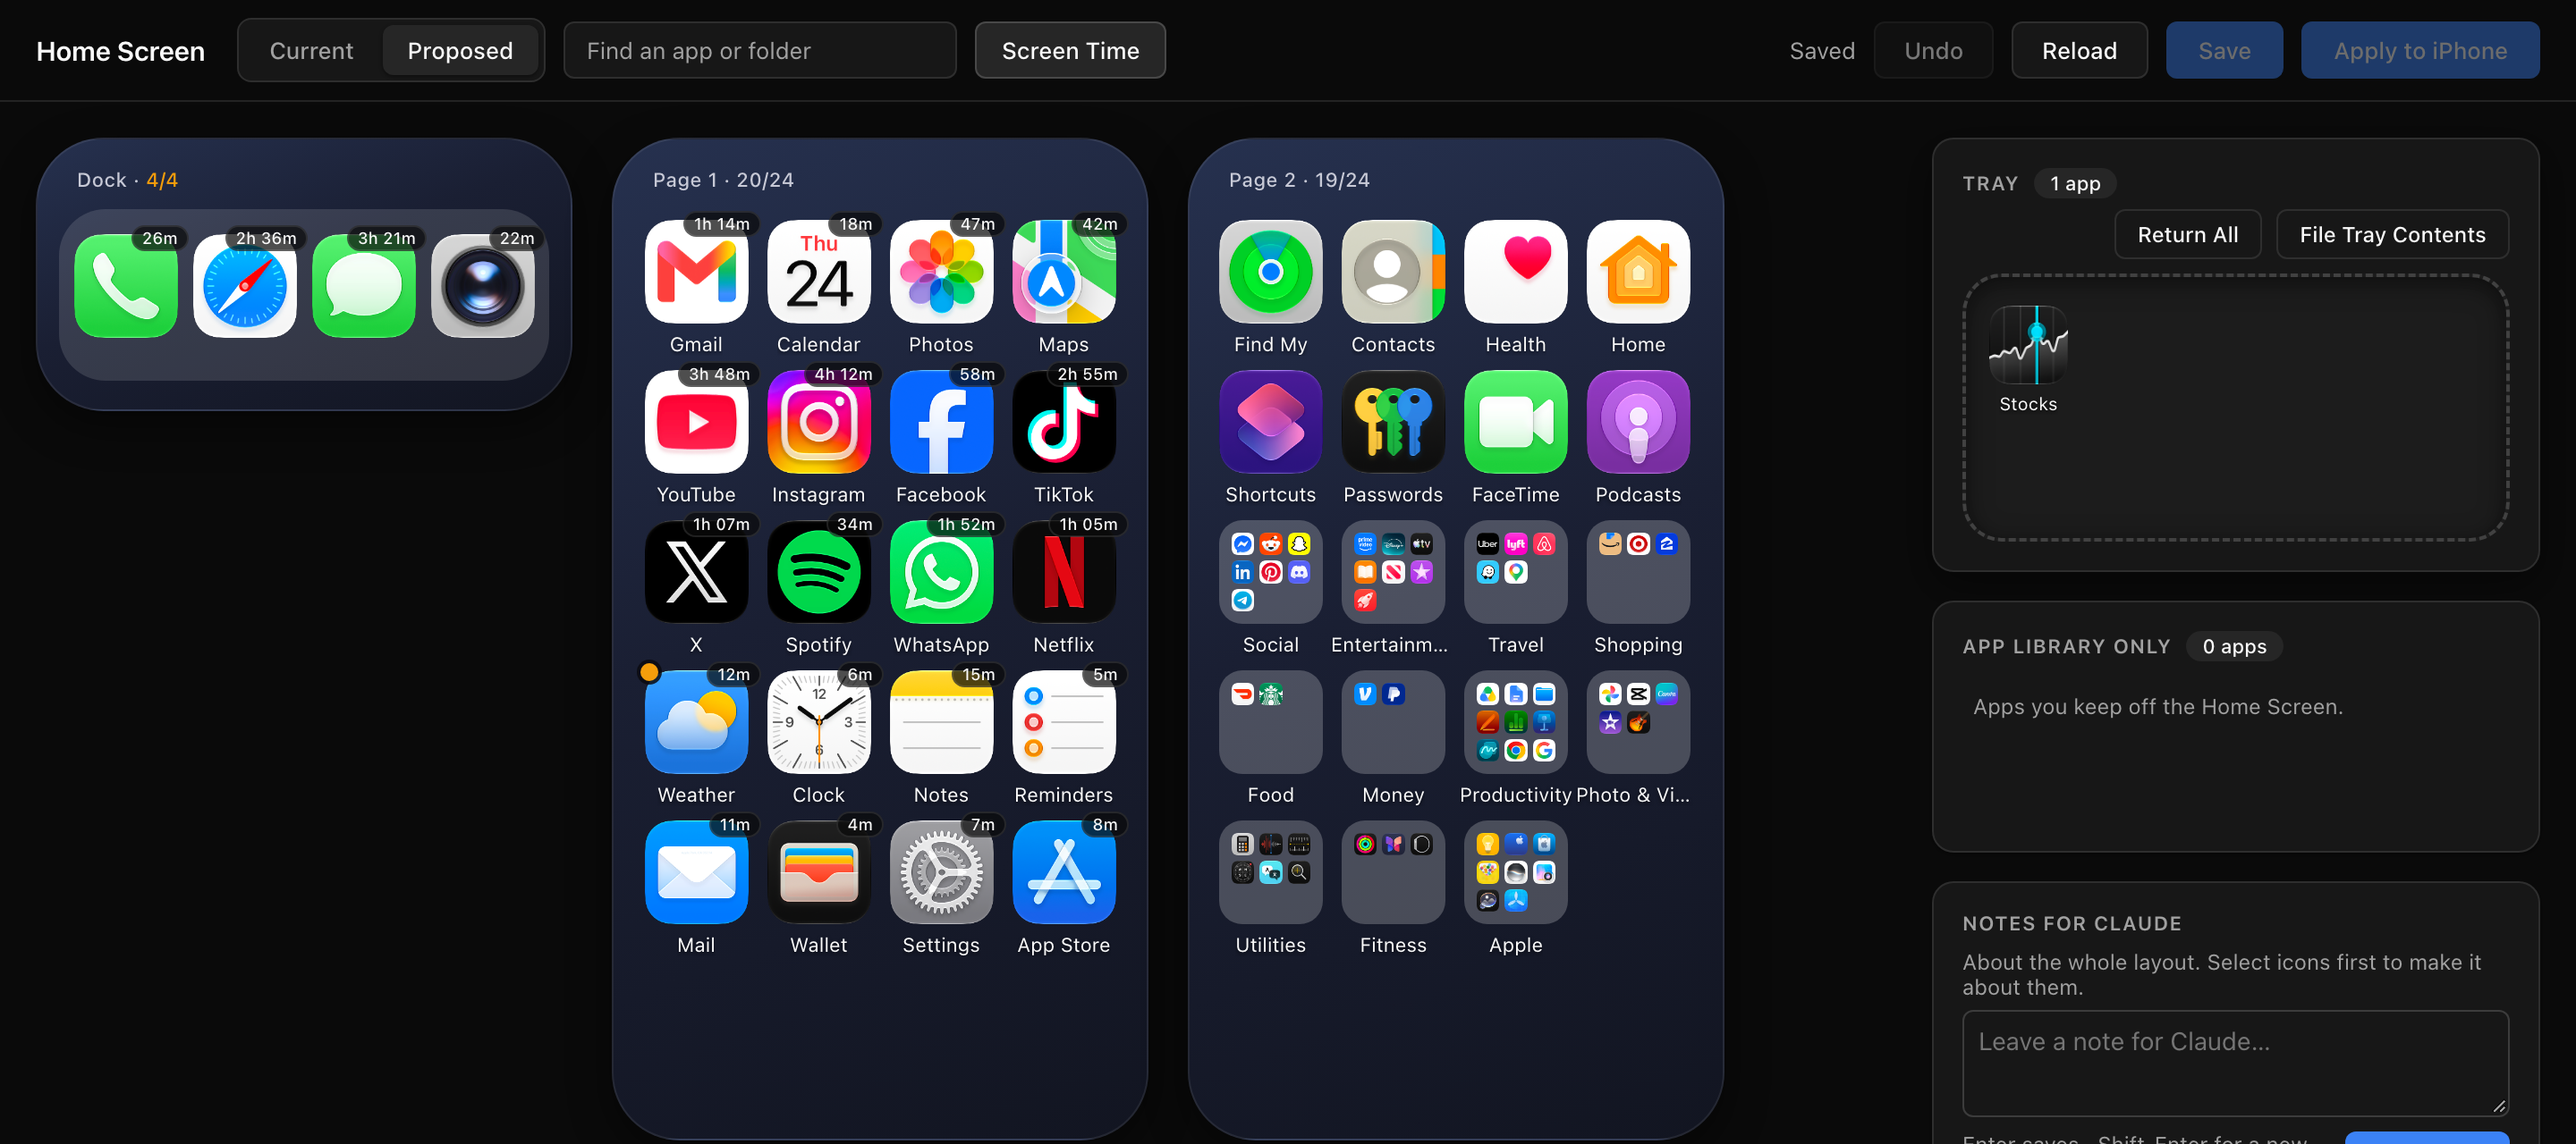
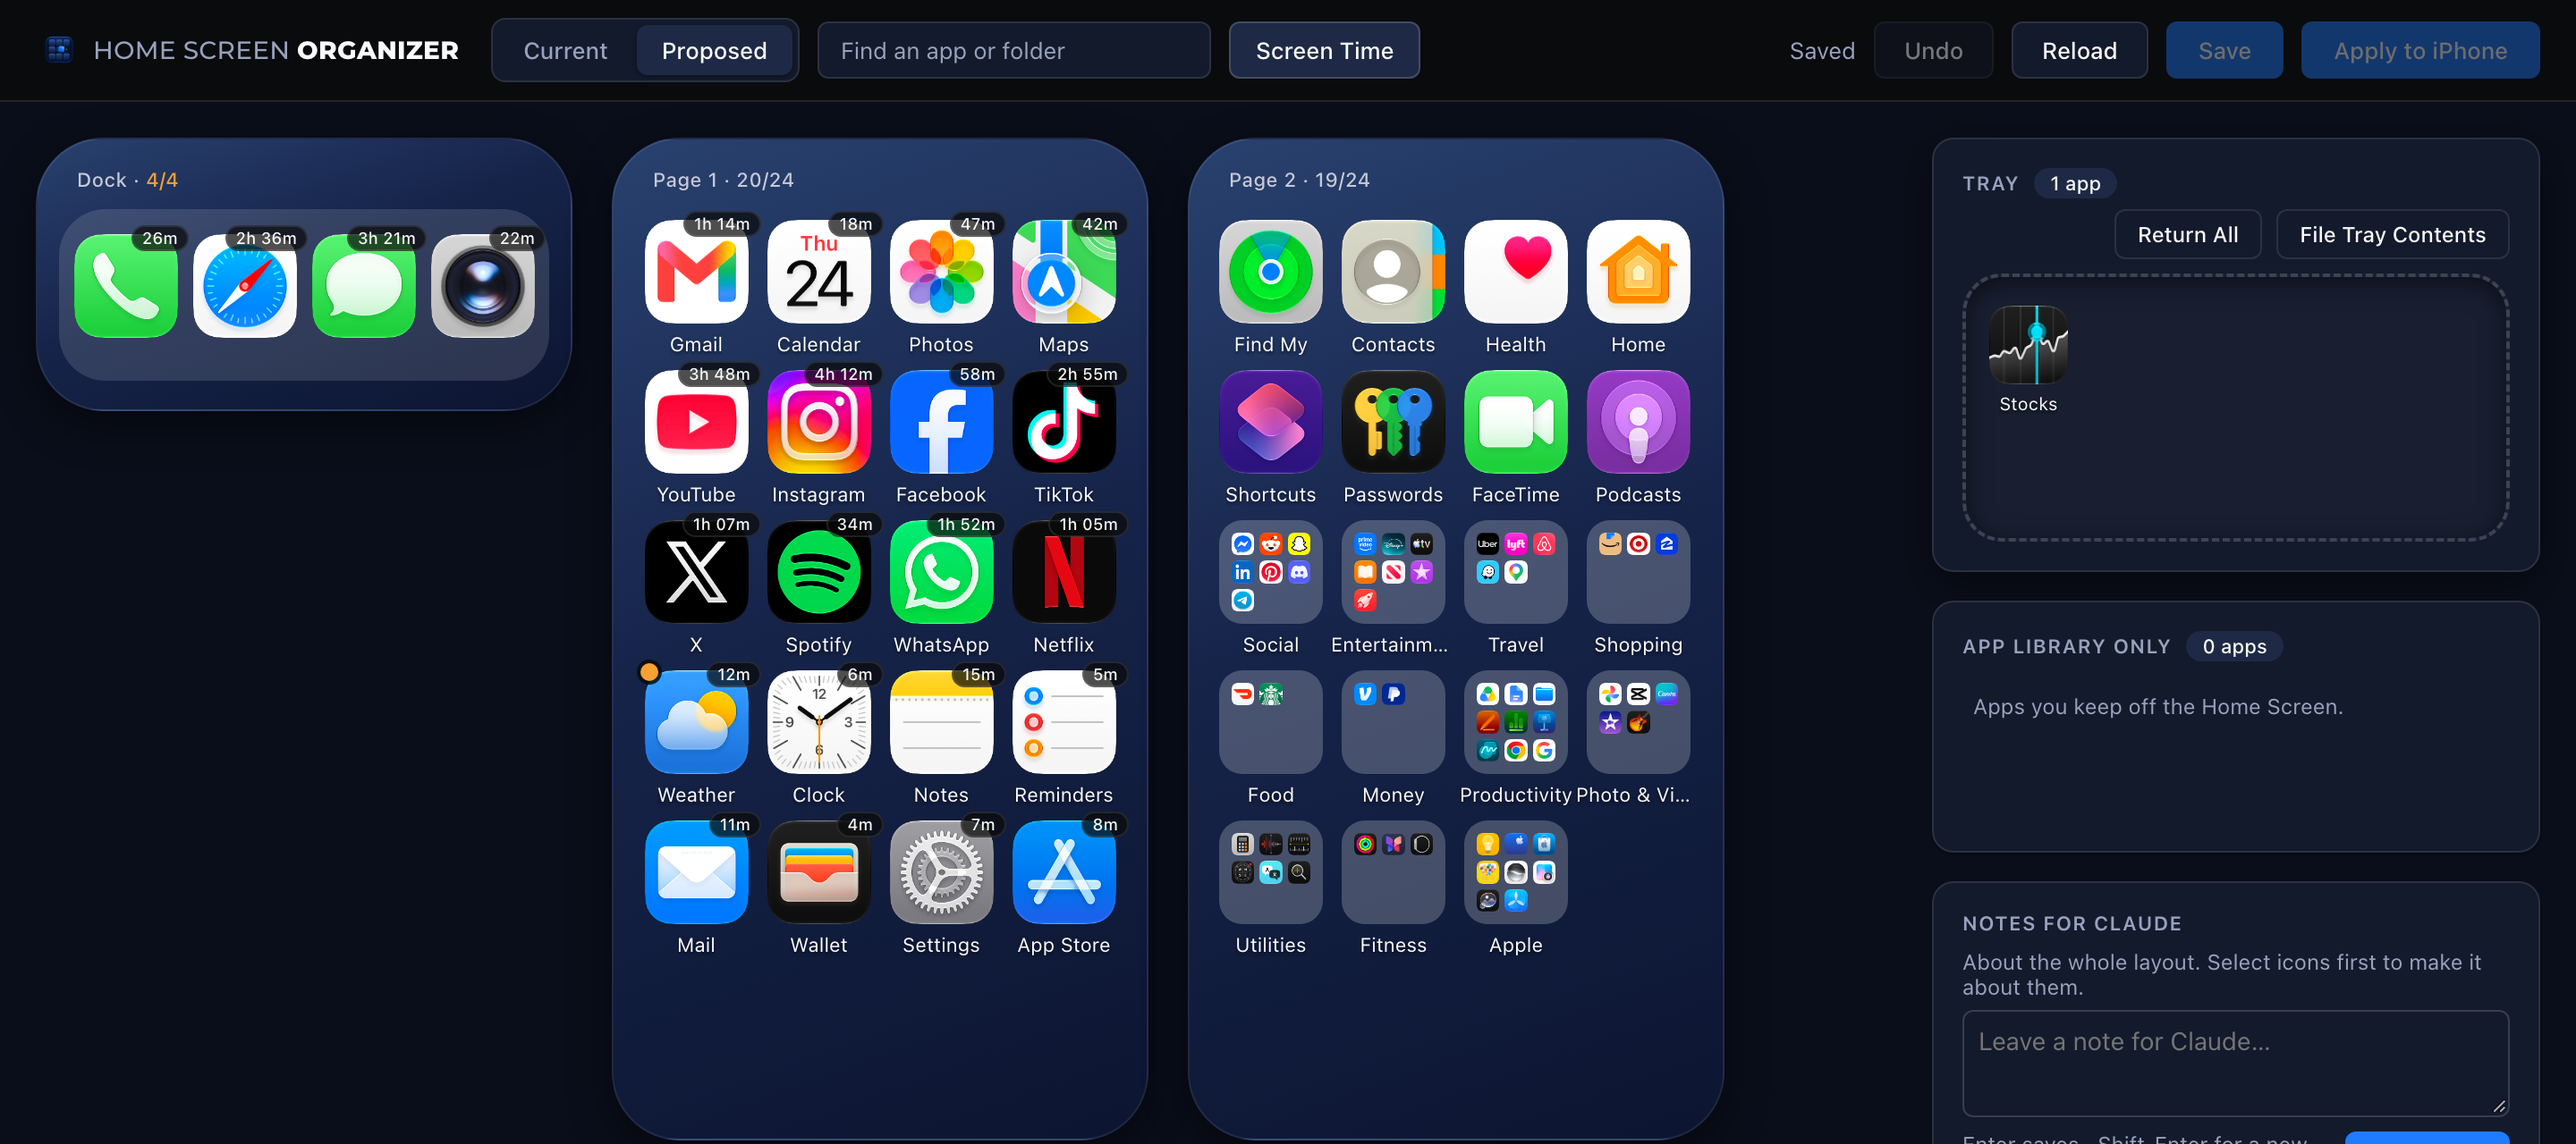
Restyle the editor with the brand palette and wordmark
Map the CSS custom properties to the brand palette: blue for actions,
selection and drop targets; navy-tinted panels and phone artboards;
orange for note dots and attention accents. Selected icons get a soft
blue glow, and drop targets pick up a dashed outline with a small
orange dot, echoing the icon's motion trail into its empty slot.

Top-left brand mark replaces the plain title, with a favicon (inline
SVG plus a PNG fallback). The <title> and the title check serve.py
uses to detect an already-running editor are updated together.

Recaptured the README screenshot against the new palette.

diff --git a/web/index.html b/web/index.html
@@ -3,26 +3,32 @@
 <head>
 <meta charset="utf-8">
 <meta name="viewport" content="width=device-width, initial-scale=1">
-<title>Home Screen</title>
+<title>Home Screen Organizer</title>
[1 lines of base64/hex data omitted]
+<link rel="icon" type="image/png" sizes="64x64" href="favicon.png">
+<link rel="preconnect" href="https://fonts.googleapis.com">
+<link rel="preconnect" href="https://fonts.gstatic.com" crossorigin>
+<link href="https://fonts.googleapis.com/css2?family=Montserrat:wght@500;800&display=swap" rel="stylesheet">
 <style>
   :root {
     color-scheme: dark;
-    /* Neutral dark surfaces, modeled on ReUI/shadcn's dark theme scale (background < card <
-       popover/muted < the raised hover step), plus a blue brand accent for actions and focus. */
-    --ground: #0a0a0a;
-    --panel: #171717;
-    --panel-raised: #262626;
-    --surface-hover: #404040;
+    /* Dark surfaces tinted toward the brand navy (modeled on ReUI/shadcn's dark theme scale —
+       background < card < popover/muted < the raised hover step), with the brand blue for
+       actions and focus and the brand orange for notes and attention accents. */
+    --ground: #0a0e1a;
+    --panel: #131a2c;
+    --panel-raised: #1e2a45;
+    --surface-hover: #34456b;
     --line: rgba(255, 255, 255, .10);
     --line-strong: rgba(255, 255, 255, .16);
     --text: #fafafa;
-    --muted: #a1a1a1;
-    --accent: #3b82f6;
-    --accent-strong: #2563eb;
+    --muted: #97a2bd;
+    --accent: #1f7bff;
+    --accent-strong: #1861d1;
     --accent-foreground: #ffffff;
     --danger: #ff6467;
     --ok: #22c55e;
-    --note: #f59e0b;
+    --note: #f7a033;
     --icon: 58px;
     --radius: 13px;
     --radius-sm: 6px;
@@ -48,7 +54,14 @@
     padding: 10px 20px; background: rgba(10, 10, 10, .85); backdrop-filter: blur(12px);
     border-bottom: 1px solid var(--line);
   }
-  header h1 { font-size: 15px; margin: 0 8px 0 0; font-weight: 600; letter-spacing: -.01em; }
+  .brand { display: inline-flex; align-items: center; gap: 8px; margin: 0 8px 0 0; text-decoration: none; color: inherit; }
+  .brand-icon { width: 24px; height: 24px; display: block; flex: none; }
+  .brand-word {
+    font-family: "Montserrat", -apple-system, "SF Pro Text", "Helvetica Neue", sans-serif;
+    font-size: 14px; line-height: 1; white-space: nowrap; letter-spacing: .01em;
+  }
+  .brand-word .light { font-weight: 500; color: var(--muted); }
+  .brand-word .bold { font-weight: 800; color: var(--text); }
   .modes { display: inline-flex; align-items: center; background: var(--panel); border: 1px solid var(--line); border-radius: var(--radius-md); padding: 3px; gap: 2px; }
   .modes button { display: inline-flex; align-items: center; height: var(--h-sm); border: 0; background: none; padding: 0 14px; border-radius: var(--radius-sm); cursor: pointer; color: var(--muted); font-size: 13px; font-weight: 500; }
   .modes button[aria-pressed="true"] { background: var(--panel-raised); color: var(--text); box-shadow: var(--shadow-sm); }
@@ -86,15 +99,19 @@
 
   .screen {
     width: 300px; padding: 14px 12px 16px; border-radius: 38px;
-    background: linear-gradient(160deg, #26314f 0%, #1a1f33 45%, #121521 100%);
+    background: linear-gradient(160deg, #29416f 0%, #16244a 45%, #0c1530 100%);
     border: 1px solid rgba(255, 255, 255, .08); box-shadow: var(--shadow-md);
   }
   .screen-head { display: flex; align-items: center; justify-content: space-between; padding: 2px 10px 10px; font-size: 11px; font-weight: 500; letter-spacing: .02em; color: #c7c9d6; }
   .count.full { color: var(--note); }
   .count.over { color: var(--danger); font-weight: 600; }
   .screen-head button { background: none; border: 0; color: var(--danger); cursor: pointer; font-size: 11px; font-weight: 500; }
-  .grid { display: grid; grid-template-columns: repeat(4, 1fr); grid-auto-rows: 84px; min-height: calc(84px * 6); border-radius: 18px; }
-  .grid.target { background: rgba(59, 130, 246, .12); }
+  .grid { position: relative; display: grid; grid-template-columns: repeat(4, 1fr); grid-auto-rows: 84px; min-height: calc(84px * 6); border-radius: 18px; }
+  .grid.target { background: rgba(31, 123, 255, .12); outline: 2px dashed rgba(31, 123, 255, .55); outline-offset: -2px; }
+  .grid.target::after {
+    content: ""; position: absolute; top: 10px; right: 10px; width: 8px; height: 8px;
+    border-radius: 50%; background: var(--note); box-shadow: 0 0 0 2px rgba(10, 14, 26, .7);
+  }
   .dock .grid { min-height: 0; grid-auto-rows: 80px; padding: 8px 4px; background: rgba(255, 255, 255, .13); border-radius: 26px; }
   .dock .label { display: none; }
   .add-page {
@@ -107,7 +124,7 @@
   .tile.dragging { opacity: .3; }
   .tile.dim { opacity: .18; }
   .tile.match .icon { box-shadow: 0 0 0 3px var(--note); }
-  .tile.selected .icon { box-shadow: 0 0 0 2px var(--ground), 0 0 0 4px var(--accent); }
+  .tile.selected .icon { box-shadow: 0 0 0 2px var(--ground), 0 0 0 4px var(--accent), 0 0 14px 2px rgba(31, 123, 255, .55); }
   .icon { width: var(--icon); height: var(--icon); border-radius: var(--radius); overflow: hidden; flex: none; transition: transform .12s; }
   .icon img { width: 100%; height: 100%; display: block; }
   .placeholder { display: grid; place-items: center; width: 100%; height: 100%; font-weight: 600; font-size: 24px; color: #fff; }
@@ -146,21 +163,26 @@
   .hint { color: var(--muted); font-size: 12px; line-height: 1.5; margin: 8px 0 0; }
   .notice {
     display: flex; margin: 0 20px; padding: 11px 14px; border-radius: var(--radius-md);
-    background: rgba(245, 158, 11, .1); border: 1px solid rgba(245, 158, 11, .3);
-    border-left: 3px solid var(--note); color: #fcd34d; font-size: 13px; line-height: 1.5;
+    background: rgba(247, 160, 51, .1); border: 1px solid rgba(247, 160, 51, .3);
+    border-left: 3px solid var(--note); color: #fbc584; font-size: 13px; line-height: 1.5;
   }
 
   .tray-card { box-shadow: var(--shadow-md); }
   .tray-count { text-transform: none; color: var(--text); background: var(--panel-raised); border-radius: var(--radius-full); padding: 2px 9px; font-size: 11px; font-weight: 500; letter-spacing: 0; white-space: nowrap; }
   .tray {
     --icon: 44px; --radius: 10px;
+    position: relative;
     display: grid; grid-template-columns: repeat(5, 1fr); grid-auto-rows: 70px; align-content: start;
     min-height: 150px; max-height: 42vh; overflow-y: auto; padding: 10px 6px;
     border: 2px dashed var(--line-strong); border-radius: 22px;
     background: rgba(255, 255, 255, .025); box-shadow: inset 0 3px 14px rgba(0, 0, 0, .55);
     transition: border-color .12s, background .12s;
   }
-  .tray.target { border-color: var(--accent); background: rgba(59, 130, 246, .08); }
+  .tray.target { border-color: var(--accent); background: rgba(31, 123, 255, .08); }
+  .tray.target::after {
+    content: ""; position: absolute; top: 10px; right: 12px; width: 8px; height: 8px;
+    border-radius: 50%; background: var(--note); box-shadow: 0 0 0 2px rgba(10, 14, 26, .7);
+  }
   .tray .label { font-size: 10px; max-width: 56px; }
   .tray .usage-badge { display: none; }
   .tray-empty { grid-column: 1 / -1; align-self: center; text-align: center; color: var(--muted); font-size: 13px; margin-top: 44px; }
@@ -171,7 +193,7 @@
     min-height: 0; max-height: 30vh; overflow-y: auto; padding: 6px 4px; border-radius: var(--radius-lg);
     transition: background .12s;
   }
-  .app-library-only.target { background: rgba(59, 130, 246, .08); }
+  .app-library-only.target { background: rgba(31, 123, 255, .08); }
   .app-library-only .label { font-size: 10px; max-width: 56px; }
   .app-library-only .usage-badge { display: none; }
   .app-library-empty { grid-column: 1 / -1; color: var(--muted); font-size: 12px; padding: 4px 2px; }
@@ -248,7 +270,10 @@
 </head>
 <body>
 <header>
-  <h1>Home Screen</h1>
+  <a class="brand" href="https://github.com/justinleveck/homescreen-organizer" aria-label="Home Screen Organizer">
+    <img class="brand-icon" src="../docs/brand/icon.png" alt="" width="24" height="24">
+    <span class="brand-word"><span class="light">HOME SCREEN</span> <span class="bold">ORGANIZER</span></span>
+  </a>
   <div class="modes" role="group" aria-label="Layout">
     <button type="button" data-mode="current">Current</button>
     <button type="button" data-mode="proposed">Proposed</button>

diff --git a/lib/serve.py b/lib/serve.py
@@ -15,7 +15,7 @@ from file_tray import file_tray_contents
 from layout import APP_LIBRARY_ONLY, BACKUPS, PROPOSED, ROOT, STATE, TRAY
 
 NOTES = STATE / "notes.json"
-EDITOR_TITLE = b"<title>Home Screen</title>"
+EDITOR_TITLE = b"<title>Home Screen Organizer</title>"
 NOTE_STATUSES = {"open", "done"}
 
 # Overridable so tests can stub out the phone-facing step without touching a real iPhone.
